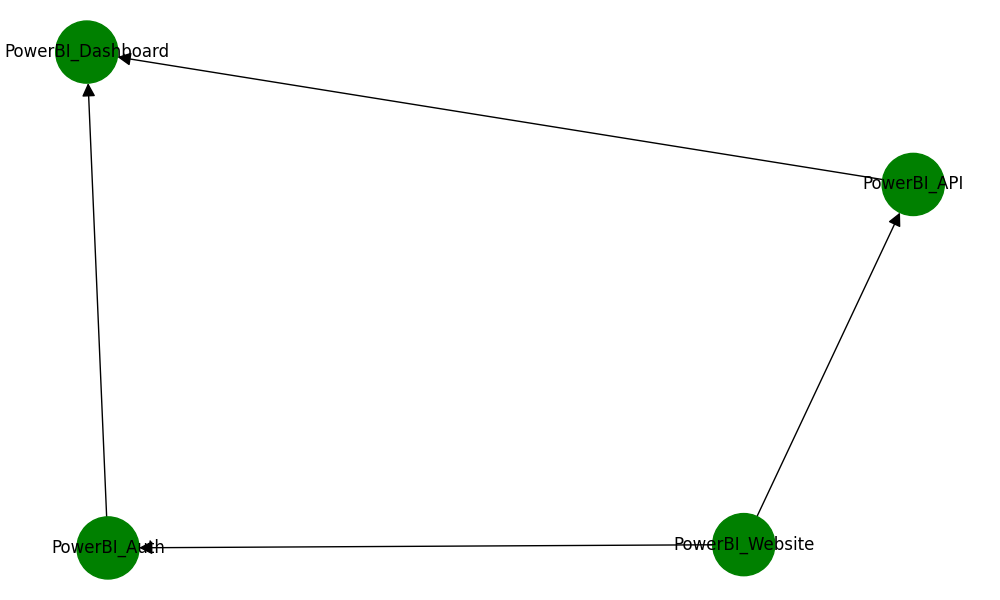
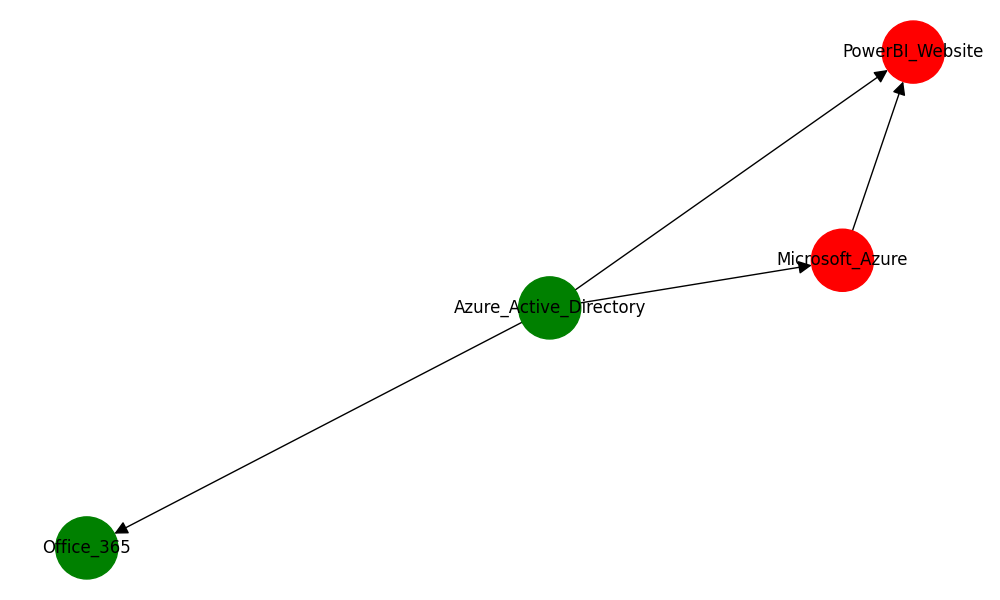
Amended code with correct dependency

diff --git a/HealthCheckAPI/app/main.py b/HealthCheckAPI/app/main.py
@@ -1,7 +1,5 @@
-# app/main.py
 from fastapi import FastAPI, HTTPException
 from fastapi.responses import FileResponse
-import asyncio
 import os
 
 from app.health import check_component_health
@@ -14,69 +12,70 @@ app = FastAPI(
     version="1.0.0"
 )
 
-# Path for DAG image
 DAG_IMAGE_PATH = "dag.png"
+
 
 @app.get("/")
 def root():
-    """
-    Root endpoint to confirm API is running.
-    """
     return {
         "message": "System Health Check API is running. Use /docs for Swagger UI."
     }
 
+
 @app.post("/health")
 async def health_check(system: dict):
-    """
-    Evaluate health of all components in the system DAG.
-    Input JSON format:
-    {
-      "components": [
-        {"name": "PowerBI_Website", "url": "https://www.powerbi.com", "depends_on": []},
-        ...
-      ]
+
+    components = system.get("components", [])
+    if not components:
+        raise HTTPException(status_code=400, detail="No components provided.")
+
+    # Build DAG
+    dag = build_dag(components)
+
+    # Get traversal order
+    ordered_nodes = bfs_traversal(dag)
+
+    results = []
+    status_map = {}
+
+    # ✅ Dependency-aware execution
+    for node in ordered_nodes:
+        comp_data = dag.nodes[node]
+        url = comp_data.get("url")
+        deps = comp_data.get("depends_on", [])
+
+        # ❗ propagate dependency failure
+        if any(status_map.get(dep) != "healthy" for dep in deps):
+            result = {
+                "component": node,
+                "status": "unhealthy"
+            }
+            status_map[node] = "unhealthy"
+            results.append(result)
+            continue
+
+        # actual health check
+        result = await check_component_health(node, url)
+        status_map[node] = result["status"]
+        results.append(result)
+
+    overall_status = (
+        "healthy"
+        if all(r["status"] == "healthy" for r in results)
+        else "unhealthy"
+    )
+
+    visualize_dag(dag, results, DAG_IMAGE_PATH)
+
+    return {
+        "overall_status": overall_status,
+        "components": results,
+        "dag_image": DAG_IMAGE_PATH
     }
-    """
-    try:
-        components = system.get("components", [])
-        if not components:
-            raise HTTPException(status_code=400, detail="No components provided.")
 
-        # Build DAG
-        dag = build_dag(components)
-
-        # BFS traversal of DAG
-        ordered_nodes = bfs_traversal(dag)
-
-        # Run health checks asynchronously
-        tasks = []
-        for node in ordered_nodes:
-            comp_data = dag.nodes[node]
-            tasks.append(check_component_health(node, comp_data.get("url")))
-        results = await asyncio.gather(*tasks)
-
-        # Aggregate overall status
-        overall_status = "healthy" if all(r["status"] == "healthy" for r in results) else "unhealthy"
-
-        # Visualize DAG
-        visualize_dag(dag, results, DAG_IMAGE_PATH)
-
-        return {
-            "overall_status": overall_status,
-            "components": results,
-            "dag_image": DAG_IMAGE_PATH
-        }
-
-    except Exception as e:
-        raise HTTPException(status_code=500, detail=str(e))
 
 @app.get("/dag_image")
 def get_dag_image():
-    """
-    Returns the latest DAG image.
-    """
     if os.path.exists(DAG_IMAGE_PATH):
         return FileResponse(DAG_IMAGE_PATH)
-    else:
-        raise HTTPException(status_code=404, detail="DAG image not found.")
+    raise HTTPException(status_code=404, detail="DAG image not found.")

diff --git a/HealthCheckAPI/app/health.py b/HealthCheckAPI/app/health.py
@@ -4,23 +4,20 @@ import httpx
 
 async def check_component_health(name, url=None):
     """
-    Check component health via HTTP GET if URL is provided.
-    If URL responds with 200 => healthy
-    Any exceptions => unhealthy
+    Perform HTTP health check.
     """
-    if url:
-        try:
-            async with httpx.AsyncClient(timeout=10, verify=True) as client:
-                response = await client.get(url)
-                if 200 <= response.status_code < 300:
-                    status = "healthy"
-                else:
-                    status = "unhealthy"
-        except httpx.RequestError as e:
-            print(f"[ERROR] {name} request failed: {e}")
-            status = "unhealthy"
-    else:
-        status = "healthy"
+    if not url:
+        return {"component": name, "status": "healthy"}
+
+    try:
+        async with httpx.AsyncClient(timeout=10, verify=True) as client:
+            response = await client.get(url)
+
+        status = "healthy" if 200 <= response.status_code < 300 else "unhealthy"
+
+    except httpx.RequestError as e:
+        print(f"[ERROR] {name} request failed: {e}")
+        status = "unhealthy"
 
     print(f"[INFO] {name} status: {status}")
     return {"component": name, "status": status}

diff --git a/HealthCheckAPI/app/graph.py b/HealthCheckAPI/app/graph.py
@@ -1,18 +1,29 @@
 # app/graph.py
 import networkx as nx
 
+
 def build_dag(components):
     """
-    Build a DAG from a list of components.
-    Each component: {"name": str, "depends_on": [str]}
+    Build a DAG from components while preserving metadata.
     """
     G = nx.DiGraph()
+
     for comp in components:
-        G.add_node(comp["name"])
+        name = comp["name"]
+
+        # store full metadata in node
+        G.add_node(
+            name,
+            url=comp.get("url"),
+            depends_on=comp.get("depends_on", [])
+        )
+
         for dep in comp.get("depends_on", []):
-            G.add_edge(dep, comp["name"])
+            G.add_edge(dep, name)
+
     if not nx.is_directed_acyclic_graph(G):
         raise ValueError("The input graph must be a DAG.")
+
     return G
 
 def bfs_traversal(G, start_nodes=None):